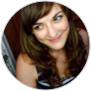
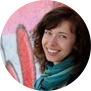
media object in header

diff --git a/index.html b/index.html
@@ -43,43 +43,34 @@
 <div class="modal" id="tfPopup" tabindex="-1" role="dialog" aria-labelledby="tfPopupLabel">
   <div class="modal-dialog">
     <div class="modal-content">
-      
-        <div class="modal-header" style="line-height: 1.5; background: #F9F9F9; height: 131px;">
-          <a class="close" style="margin-top: -6px;"><img src="assets/close-icon.png" width="16" height="16"></a>
-         
-          <div class="container-fluid">
+      <div class="modal-header" style="line-height: 1.5; background: #F9F9F9; height: 131px;">
+        <a class="close" style="margin-top: -6px;"><img src="assets/close-icon.png" width="16" height="16"></a>
+        <div class="clearfix"></div>
+        <div class="container-fluid">
           <div class="row">
-            <div class="col-md-12">
+            <div class="col-sm-4">
               <div class="media">
                 <div class="media-left media-middle">
                   <a href="">
                     <img class="media-object" src="assets/back.png">
-                  
-                    </a>
+                  </a>
                 </div>
                 <div class="media-body">
-                 
-                    <div class="row">
-                   
-                    <div class="col-xs-4">
-                      <div class="tw tw-light" style="padding-top: 11px; padding-bottom: 11px;">CALLS HISTORY</div>
-                    </div>
-                    <div class="col-xs-4">
-                      <div class="text-right">
-                        <span class="label label-success">In Call</span>
-                        <span class="label label-default">Outbound Call</span>
-                      </div>
-                    
-                      
-                    </div>
-
-                      <div class="col-xs-4" style="padding-left: 0;">
-                        <span class="call-duration tw tw-thin" style="letter-spacing: -1.75px;">00:03:57</span>
-                      </div>
-                  </div>
+                  <div class="tw tw-light padding-top-11 padding-bottom-11">CALLS HISTORY</div>
                   
-                      
-                    
+                </div>
+              </div>
+            </div>
+            <div class="col-sm-8">
+              <div class="media call">
+                <div class="media-left media-middle">
+                  <div class="text-right call-info">
+                    <span class="label label-success">In Call</span>
+                    <span class="label label-default">Outbound Call</span>
+                  </div>
+                </div>
+                <div class="media-body">
+                  <p class="call-duration tw tw-thin">00:03:57</p>
                 </div>
                 <div class="media-right media-middle">
                   <img class="media-object" src="assets/phone.png">            
@@ -87,9 +78,8 @@
               </div>
             </div>
           </div>
-          
         </div><!-- end container-fluid -->
-        </div>
+      </div><!-- end modal-header -->
        
         
   
@@ -107,8 +97,8 @@
               <span class="call-indicator-success"></span>
             </div>
             <div class="media-body">
-              <h1 class="media-heading tw tw-light contact-name">Shirley Thomas
-              <span class="contact-phone pull-right"><a class="tw tw-light" href=""><u>+1 (234) 123 123</u></a></span></h1>
+              <h1 class="media-heading tw tw-light contact-name">Ann Brandanowitz
+              <span class="contact-phone pull-right"><a class="tw tw-light" href=""><u>+1 (234) 456 7890</u></a></span></h1>
             </div>
           </div>    
 
@@ -119,9 +109,11 @@
          <div class="media-body"> 
           
             
-          Marketing Executive, Inform Group Pty Ltd, Philippines, Cosmetics
+          Marketing Executive, Sportade, USA, Sports Drinks
           
-          <a class="text-muted" href="">Linkedin</a>, <a class="text-muted" href="">Facebook</a>, <a class="text-muted" href="">Twitter</a>, <a class="text-muted" href="">+ Add Field</a>
+          <div class="contact-social">
+            <a class="text-muted" href="">Linkedin</a>, <a class="text-muted" href="">Facebook</a>, <a class="text-muted" href="">Twitter</a>, <a class="text-muted" href="">+ Add Field</a>
+          </div>
         </div>
         </div>
       
@@ -130,51 +122,50 @@
             </div>
     </div>
   </div>
-<div class="contact-history" style="overflow:hidden;">
+<div class="contact-history" style="overflow:hidden; padding-left: 13px;">
  
       
         <a class="tw tw-light text-dark text-right" href="#history-detail" data-toggle="collapse" style="display:block; margin-bottom: 5px;">CALLS HISTORY <span class="caret"></span></a>
           <div class="collapse" id="history-detail" >
-            <div class="container-fluid">
-              <div class="row">
-                <div class="col-sm-6">
-              <div class="media" style="overflow:visible;">
+            <div class="media" style="overflow:visible;">
                 <div class="media-left">
                   <img class="icon-phone center-block" src="assets/icon.png" width="62" height="103" style="margin-top: -41px;">                        
                 </div>
                 <div class="media-body text-left" style="padding-top:10px;">
-                  <span class="label label-default">Outbound Call</span>
-                  <div class="media" style="margin-top: 2px;">
-                    <div class="media-left media-middle">
-                      <span class="glyphicon glyphicon-time media-object" style="font-size: 15px;"></span>
+                  <div class="container-fluid">
+                    <div class="row">
+                      <div class="col-sm-6">
+                    <span class="label label-default">Outbound Call</span>
+                    <div class="media" style="margin-top: 2px;">
+                      <div class="media-left media-middle">
+                        <span class="glyphicon glyphicon-time media-object" style="font-size: 15px;"></span>
+                      </div>
+                      <div class="media-body">
+                        4 Days Ago
+                      </div>
                     </div>
-                    <div class="media-body">
-                      4 Days Ago
+                  </div>
+                  <div class="text-right">
+                      <ul class="list-inline">
+                        <li>
+                          <div class="text-center"> 
+                            <img class="center-block" src="assets/calendar.png" width="18" height="18">
+                            <a class="tw tw-light" href="">1 Follow Up </a>
+                          </div> 
+                        </li> 
+                        <li>
+                          <div class="text-center">
+                            <img class="center-block" src="assets/note.png" width="19" height="20">
+                            <a class="tw tw-light" href="">3 Notes</a> 
+                          </div>
+                        </li>
+                      </ul>
+                    </div>
                     </div>
                   </div>
                 </div>
               </div>
-            </div>
-            <!-- <div class="col-sm-6"> -->
-              <div class="text-right" style="padding-top:12px;">
-                <ul class="list-inline">
-                  <li>
-                    <div class="text-center"> 
-                      <img class="center-block" src="assets/calendar.png" width="18" height="18">
-                      <a class="tw tw-light" href="">1 Follow Up </a>
-                    </div> 
-                  </li> 
-                  <li>
-                    <div class="text-center">
-                      <img class="center-block" src="assets/note.png" width="19" height="20">
-                      <a class="tw tw-light" href="">3 Notes</a> 
-                    </div>
-                  </li>
-                </ul>
-              </div>
-         <!--    </div> -->
-              </div>
-            </div>
+        
                 
               </div><!-- end collapse -->
               
@@ -183,7 +174,10 @@
      </div>   
     <div class="clearfix"></div>
       <div class="modal-footer registers" style="padding:20px; background-color: #EBEFF2;">
-        <a class="registers-title center-block text-dark" href="">SHOW MORE REGISTERS FROM SHIRLEY</a>
+        
+        <div class="registers-title text-center">
+          <a class="text-dark" href="">SHOW MORE REGISTERS FROM ANN</a>
+        </div>
         <div class="" style="padding: 12px; border: 1px solid rgba(0,0,0,.05); background: #fff;">
          
             
@@ -192,7 +186,7 @@
             <form action="" class="form-horizontal">
               <div class="col-sm-10">
                 <div class="form-group">
-                <textarea class="form-control tw tw-light" style="padding: 0; border: none; box-shadow: none; transition: none; resize:none;">Budget is finally available! Needs to pull in some other decision makers. Followup next week. CC sales manager @robert so he can join.</textarea>
+                <textarea class="form-control tw tw-light" style="padding: 0; border: none; box-shadow: none; transition: none; resize:none;">Budget is finally available! Needs to pull in some other decision makers. Followup next week. CC sales manager @jeff so he can join.</textarea>
          
             
           </div>

diff --git a/css/style.css b/css/style.css
@@ -37,6 +37,15 @@
     border-left: 4px solid transparent;
 }
 
+/* margin and padding */
+.padding-top-11 {
+	padding-top: 11px;
+}
+
+.padding-bottom-11 {
+	padding-bottom: 11px;
+}
+
 /* label */
 .label {
 	display: inline-block;
@@ -75,10 +84,11 @@
 /* Call */
 
 .call-info {
-	padding-left: 25px;
+	padding-left: 20px;
 }
 
 .call-duration {
+	letter-spacing: -1.75px;
 	font-size: 42px;
 	line-height: 1;
 }
@@ -101,9 +111,12 @@
 /* Registers title */
 .registers-title {
 	margin-top: -38px;
-	padding: 8px 22px;
-	width: 280px;
 	font-size: 12px;
+}
+
+.registers-title a {
+	display: inline-block;
+	padding: 8px 22px;
 	background: #ebeff2;
 	border-radius: 100px;
 }
